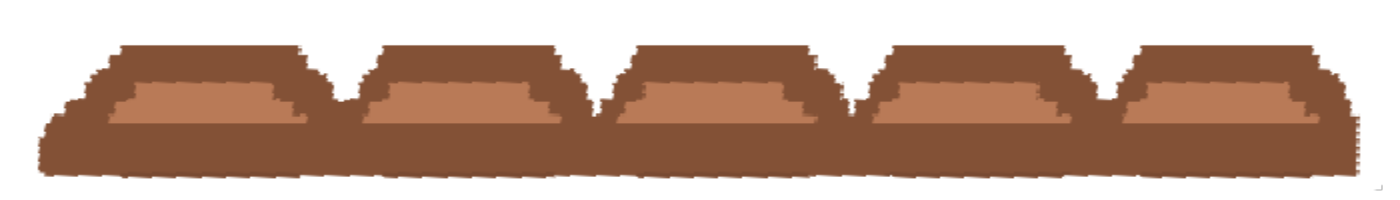
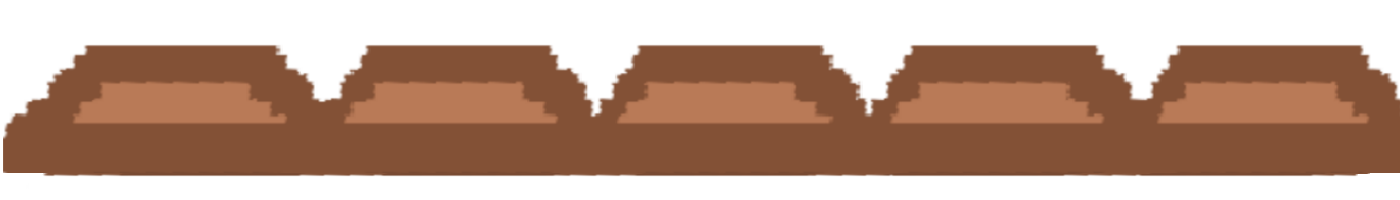
plataforma repetir

diff --git a/GameName1/GameName1/Sprite.cs b/GameName1/GameName1/Sprite.cs
@@ -15,8 +15,8 @@ namespace Sugar_Run
 		protected Scene scene;
 		//Sprite
 		protected Texture2D texture;
-		protected Vector2 position;
-		protected Vector2 size;
+		public Vector2 position;
+		public Vector2 size;
 		protected Vector2 pixelSize;
 		protected float rotation;
 		protected Rectangle? source = null;
@@ -25,15 +25,14 @@ namespace Sugar_Run
 		protected bool hasCollisions;
         protected Rectangle boundingBox;
         protected bool isFalling;
-<<<<<<< HEAD
-=======
+
 		// Raio da "bounding box"
 		protected float radius;
 		protected Color[] pixels;
->>>>>>> origin/master
+
 
         public Texture2D Textura;
-        public Vector2 Posicao;
+        
 
 		// Construtor
 		public Sprite(ContentManager content, String textureName)
@@ -52,18 +51,17 @@ namespace Sugar_Run
 		// Update
 		public virtual void Update(GameTime gameTime)
 		{
-<<<<<<< HEAD
+            
+
             scene.Collides();
 
             // Gravidade
-            if (isFalling)
-                this.position.Y -= .1f;
+            
 
             // Faz a bounding box acompanhar o movimento da sprite
-=======
+
             Gravidade();
 
->>>>>>> origin/master
             if (this.HasCollisions)
                 this.boundingBox = bb();
 		}
@@ -194,15 +192,15 @@ namespace Sugar_Run
             set { isFalling = value; }
         }
 
-<<<<<<< HEAD
+
 
         //public void LoadContent(string assetName)
         //{
         //    Textura = content.Load<Texture2D>(assetName);
         //    Posicao = Vector2.Zero;
         //}
-=======
-        public virtual void Collides(Plataforma plataforma)
+
+        public virtual void Collides(Plataform plataforma)
         {
             if (this.boundingBox.Intersects(plataforma.boundingBox))
                 this.isFalling = false;
@@ -214,7 +212,7 @@ namespace Sugar_Run
             if (isFalling)
                 this.position.Y -= 0.1f;
         }
->>>>>>> origin/master
+
 
         //public void draw(int fade)
         //{

diff --git a/GameName1/GameName1/Game1.cs b/GameName1/GameName1/Game1.cs
@@ -40,16 +40,38 @@ namespace Sugar_Run
 
             base.Initialize();
         }
-
+        
+       public Random random = new Random();
+      
         // Load Content
         protected override void LoadContent()
         {
             spriteBatch = new SpriteBatch(GraphicsDevice);
             scene = new Scene(spriteBatch);
 
-            scene.AddPlatform(new Plataform(Content));
+            //scene.AddPlatform(new Plataform(Content));
             scene.AddSprite(new Player(Content, "CandyGirl"));
            
+            
+        Vector2 posiçãoPlat = new Vector2(0f, -1.5f);
+           
+      
+            for (int i = 0; i < 100; i++)
+            { 
+                int rand = (random.Next(4)-2);
+                Plataform p = new Plataform(Content);
+                p.position.X = posiçãoPlat.X + (p.size.X);
+           
+               p.position.Y = posiçãoPlat.Y + rand;
+
+               if (p.position.Y < -1.5f)
+                   p.position.Y = -1.5f;
+
+               scene.AddPlatform(p);
+               posiçãoPlat = p.position;
+
+            }
+        
             background = new ScrollingBackground(Content);
         }
 

diff --git a/GameName1/GameName1/Player.cs b/GameName1/GameName1/Player.cs
@@ -23,7 +23,7 @@ namespace Sugar_Run
 			this.isJumping = false;
             this.isFalling = true;
             this.position = new Vector2(0, 0);
-			this.maxDistance = 4f;
+			this.maxDistance = 3f;
 			this.velocity = .5f;
 			this.direction = Vector2.Zero;
             this.EnableCollisions();
@@ -48,9 +48,11 @@ namespace Sugar_Run
 			// Movimento de salto
 			if (isJumping)
 			{
+                this.isFalling = false;
 				if ((position - sourcePosition).Length() <= maxDistance)
 				{
 					position = position + direction * velocity * (float)gameTime.ElapsedGameTime.TotalSeconds * 5;
+                    this.isFalling = true;
 				}
 				else
 				{
@@ -59,8 +61,10 @@ namespace Sugar_Run
 					{
 						position.Y = 0f;
 						isJumping = false;
+                        this.isFalling = true;
 					}
 				}
+             
 			}
 			
 			// Acompanhamento da câmara com o jogador

diff --git a/GameName1/GameName1/Scene.cs b/GameName1/GameName1/Scene.cs
@@ -96,9 +96,10 @@ namespace Sugar_Run
                 sprite.IsFalling = true;
                 foreach (var platform in platformList)
                 {
-                   
+                    
                     if (sprite.BoundingBox.Intersects(platform.BoundingBox))
                         sprite.IsFalling = false;
+
                 }
             }
         }
@@ -109,5 +110,7 @@ namespace Sugar_Run
             get { return spriteBatch; }
             private set { spriteBatch = value; }
         }
+
+
     }
 }

diff --git a/GameName1/GameName1/Plataform.cs b/GameName1/GameName1/Plataform.cs
@@ -17,5 +17,9 @@ namespace Sugar_Run
             this.SetScale(20f);
             this.EnableCollisions();
         }
+  
+       
+
+     
     }
 }
